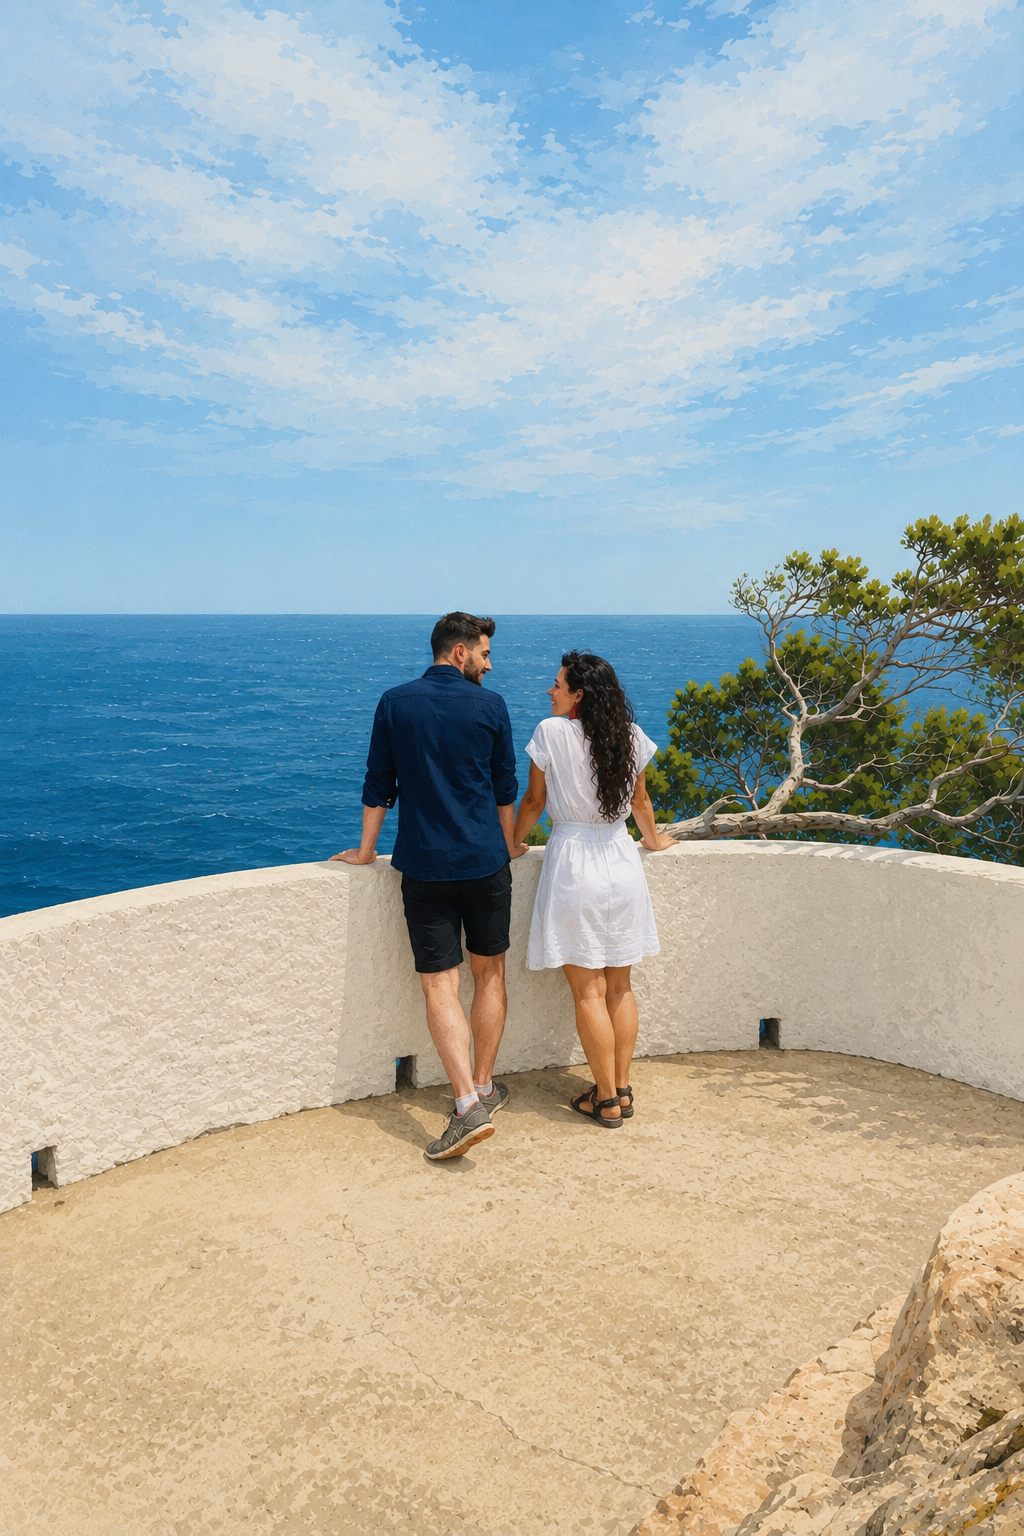
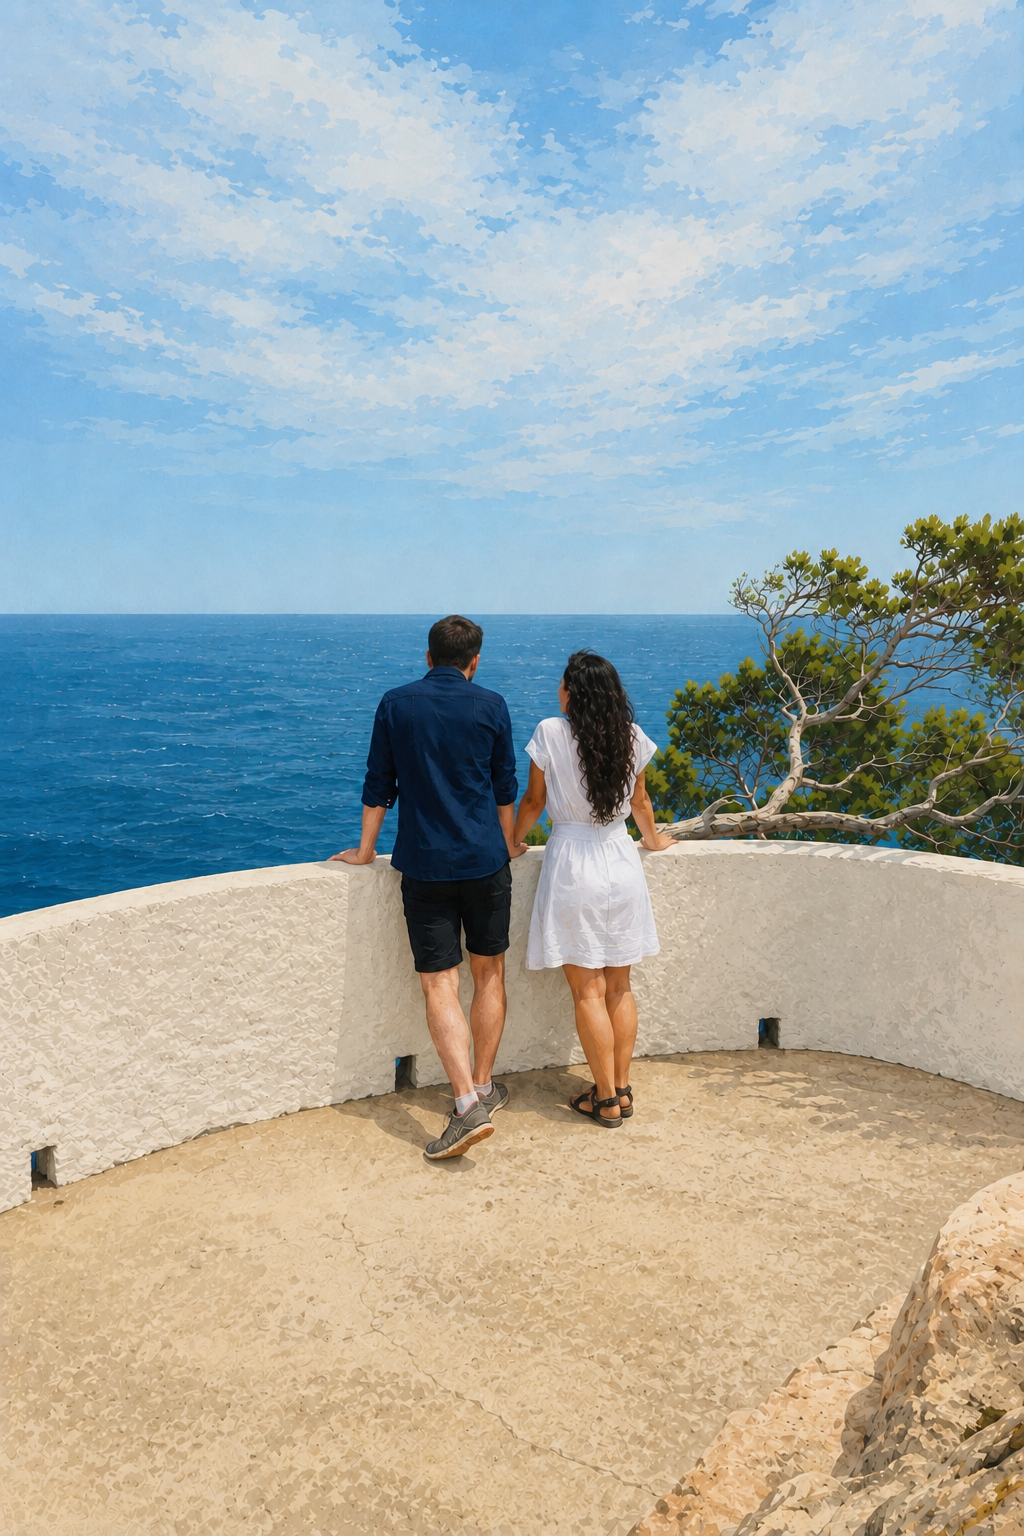
Add real wedding copy, fix addresses, IBAN env var, hero image and pin gate text

diff --git a/src/components/RSVPSection.jsx b/src/components/RSVPSection.jsx
@@ -9,15 +9,12 @@ export default function RSVPSection() {
         <img src={annaSergiRufus} alt="Anna, Sergi i Rufus" className="w-48 h-48 rounded-full object-cover mx-auto mb-8 shadow-md" />
         <h2 className="font-script text-5xl text-pine mb-6">Confirmació</h2>
         <p className="font-serif italic text-stone text-base leading-relaxed mb-6">
-          Lorem ipsum dolor sit amet, consectetur adipiscing elit. Quisque vehicula
-          sapien at libero tincidunt, vel fermentum nulla dignissim. Agrairíem que
-          confirmeu la vostra assistència abans del 30 de juny de 2026.
+          Agrairíem que confirmeu la vostra assistència abans del 30 de juny de 2026. En confirmar, indiqueu-nos:
         </p>
         <ul className="text-left mb-10 flex flex-col gap-3">
           {[
-            'Codi de vestimenta: Lorem ipsum dolor sit amet, consectetur adipiscing elit.',
-            'Al·lèrgies i intoleràncies alimentàries: Lorem ipsum dolor sit amet, consectetur adipiscing.',
-            'Regals: Lorem ipsum dolor sit amet, consectetur adipiscing elit vivamus euismod.',
+            'Codi de vestimenta: lliure, veniu com us sentiu més còmodes.',
+            'Al·lèrgies i intoleràncies alimentàries.',
           ].map((item, i) => (
             <li key={i} className="flex items-start gap-3">
               <span className="mt-1.5 w-1.5 h-1.5 rounded-full bg-pine flex-shrink-0" />
@@ -25,6 +22,28 @@ export default function RSVPSection() {
             </li>
           ))}
         </ul>
+        <div className="text-left mb-10">
+          <p className="font-serif italic text-stone text-base leading-relaxed mb-4">
+            El millor regal és compartir aquest dia amb vosaltres. Tot i així, si ens voleu fer un regal, aquests són alguns dels projectes que ens podeu ajudar a fer realitat:
+          </p>
+          <ul className="flex flex-col gap-3 mb-4">
+            {[
+              'Finalment, després de tant buscar, hem trobat el nostre pis... però ara l\'hem de comprar i reformar.',
+              'No ens podem queixar, hem viatjat molt, però des que ens vam conèixer tenim pendent visitar el Japó. Volem que el 2027 sigui l\'any en què es compleixi.',
+            ].map((item, i) => (
+              <li key={i} className="flex items-start gap-3">
+                <span className="mt-1.5 w-1.5 h-1.5 rounded-full bg-pine flex-shrink-0" />
+                <span className="font-serif italic text-stone text-base leading-relaxed">{item}</span>
+              </li>
+            ))}
+          </ul>
+          <p className="font-serif italic text-stone text-base leading-relaxed mb-1">
+            Número de compte: <span className="not-italic font-sans tracking-wider">{import.meta.env.VITE_ACCOUNT_NUMBER}</span>
+          </p>
+          <p className="font-serif italic text-stone text-sm leading-relaxed mt-4">
+            De tot cor, els regals són voluntaris — la vostra companyia és el millor regal. Recordeu només que si no ens regaleu res, haureu de venir amb un tupper. 😉
+          </p>
+        </div>
         <a
           href={WA_URL}
           target="_blank"

diff --git a/src/components/LogosSection.jsx b/src/components/LogosSection.jsx
@@ -3,29 +3,29 @@ import olivesBranch from '/olives_branch.png'
 const CEREMONY = {
   title: 'Ceremònia',
   place: 'Ajuntament de Begur',
-  address: 'Plaça de l\'Ajuntament, 1, Begur',
-  mapsUrl: 'https://maps.google.com/?q=Ajuntament+de+Begur',
+  address: 'Plaça de l\'Església, 8, 17255 Begur, Girona',
+  mapsUrl: 'https://maps.google.com/?q=Plaça+de+l\'Església+8+Begur',
   time: '12:30 h',
-  text: 'Lorem ipsum dolor sit amet, consectetur adipiscing elit. Quisque vehicula sapien at libero tincidunt.',
+  text: 'La cerimònia civil tindrà lloc a l\'Ajuntament de Begur.',
 }
 
 const RECEPTION_EVENTS = [
   {
     title: 'Aperitiu',
     time: '13:30 h',
-    text: 'Lorem ipsum dolor sit amet, consectetur adipiscing elit. Vivamus euismod eros ac orci convallis.',
+    text: 'Aperitiu a l\'exterior de Mas Ses Vinyes amb vistes a la Costa Brava.',
   },
   {
     title: 'Dinar',
     time: '14:30 h',
-    text: 'Lorem ipsum dolor sit amet, consectetur adipiscing elit. Sed nec eros vel mauris volutpat ultricies.',
+    text: 'Dinar de celebració al restaurant de Mas Ses Vinyes.',
   },
 ]
 
 const RECEPTION_PLACE = {
   place: 'Mas Ses Vinyes',
-  address: 'Carretera de Palafrugell, km 3, Begur',
-  mapsUrl: 'https://maps.google.com/?q=Mas+Ses+Vinyes+Begur',
+  address: 'Camino, Camí ses Vinyes, 15, 17255 Begur, Girona',
+  mapsUrl: 'https://www.google.com/maps/place//data=!4m2!3m1!1s0x12ba538f60a330a5:0xb29b2c1d86788c70',
 }
 
 function LocationLink({ mapsUrl }) {
@@ -52,9 +52,9 @@ function AddressLine({ address }) {
 
 export default function LogosSection({ guest }) {
   return (
-    <section id="detalls" className="relative py-20 px-8 overflow-hidden" style={{ background: '#EDF2E8' }}>
-      <img src={olivesBranch} className="absolute top-0 left-0 pointer-events-none" style={{ mixBlendMode: 'multiply', transform: 'scaleX(-1) rotate(180deg)', opacity: 0.1, width: '35em' }} />
-      <img src={olivesBranch} className="absolute bottom-0 right-0 pointer-events-none" style={{ mixBlendMode: 'multiply', transform: 'scaleY(-1) rotate(180deg)', opacity: 0.1, width: '35em' }} />
+    <section id="detalls" className="relative py-20 px-8 overflow-hidden" style={{ background: '#f3f5eb' }}>
+      <img src={olivesBranch} className="absolute top-0 left-0 pointer-events-none" style={{ mixBlendMode: 'multiply', transform: 'scaleX(-1) rotate(180deg)', opacity: 0.1, width: '30em' }} />
+      <img src={olivesBranch} className="absolute bottom-0 right-0 pointer-events-none" style={{ mixBlendMode: 'multiply', transform: 'scaleY(-1) rotate(180deg)', opacity: 0.1, width: '30em' }} />
 
       <div className="max-w-sm mx-auto relative z-10">
         <h2 className="font-serif text-3xl text-pine mb-4 text-center">Els detalls...</h2>

diff --git a/src/components/TextSection.jsx b/src/components/TextSection.jsx
@@ -6,15 +6,12 @@ export default function TextSection({ guest }) {
           Hola {guest?.name},
         </p>
         <p className="font-serif italic text-stone text-base leading-relaxed mb-5">
-          Lorem ipsum dolor sit amet, consectetur adipiscing elit. Quisque vehicula
-          sapien at libero tincidunt, vel fermentum nulla dignissim. Vivamus euismod
-          eros ac orci convallis, ut dignissim velit facilisis.
+          <strong>Ens casem!</strong> Després de sis anys i mig d'aventures junts hem decidit fer el pas i casar-nos el proper <strong>24 de setembre</strong> a Begur, un lloc molt especial per nosaltres perquè és on fa tres anys ens vam prometre, al mirador de la Cova d'en Gispert.
         </p>
-        <p className="font-serif italic text-stone text-base leading-relaxed mb-14">
-          Lorem ipsum dolor sit amet, consectetur adipiscing elit. Quisque vehicula
-          sapien at libero tincidunt, vel fermentum nulla dignissim. Vivamus euismod
-          eros ac orci convallis, ut dignissim velit facilisis.
+        <p className="font-serif italic text-stone text-base leading-relaxed mb-5">
+          Volem celebrar-ho acompanyats de la nostra família, sense gaires protocols, de manera senzilla i íntima. Tot i que no us enganyarem, hem tingut la temptació de casar-nos i no dir-li a ningú, ja ens coneixeu.
         </p>
+        <p className="font-serif italic text-stone text-base leading-relaxed mb-14">Us hi esperem amb molta il·lusió,</p>
         <p className="font-script italic text-2xl text-stone">Anna i Sergi</p>
       </div>
     </section>

diff --git a/src/components/HeroSection.jsx b/src/components/HeroSection.jsx
@@ -1,11 +1,11 @@
-import heroBg from '/AnnaiSergi.png'
+import heroBg from '/ab13286b-4e15-4e0c-81b0-0dbf87bd6ce1.png'
 
 export default function HeroSection() {
   return (
     <section
       id="hero"
       className="relative w-full min-h-screen flex flex-col items-center justify-center px-6"
-      style={{ backgroundImage: `url(${heroBg})`, backgroundSize: 'cover', backgroundPosition: 'center 35%' }}
+      style={{ backgroundImage: `url(${heroBg})`, backgroundSize: 'cover', backgroundPosition: 'center 56%' }}
     >
       <div className="absolute inset-0 bg-black/10 pointer-events-none" />
       <div className="relative z-10 text-center -translate-y-24">

diff --git a/src/components/PinGate.jsx b/src/components/PinGate.jsx
@@ -35,10 +35,10 @@ const inputRef = useRef(null)
 
       <div className="relative z-10 text-center w-full max-w-xs">
         <h1 className="font-script text-6xl text-white leading-none mb-2">
-          Benvingut/da
+          Benvinguts
         </h1>
         <p className="font-serif italic text-white/80 text-lg mb-8 tracking-wide">
-          Introdueix el PIN
+          Introduïu el PIN
         </p>
 
         <form onSubmit={handleSubmit} className="w-full">

diff --git a/src/config.js b/src/config.js
@@ -4,6 +4,7 @@
 // name: el seu nom (per personalitzar el missatge de benvinguda)
 // hasCeremony: true si assisteixen a la cerimònia religiosa, false si només al banquet
 export const GUESTS = [
+  { pin: '1234', name: 'Anna i Sergi', hasCeremony: true },
   { pin: '3847', name: 'Lidia i Jordi', hasCeremony: true },
   { pin: '5129', name: 'Anna i Gerard', hasCeremony: true },
   { pin: '7463', name: 'Helena i Jimmy', hasCeremony: true },
